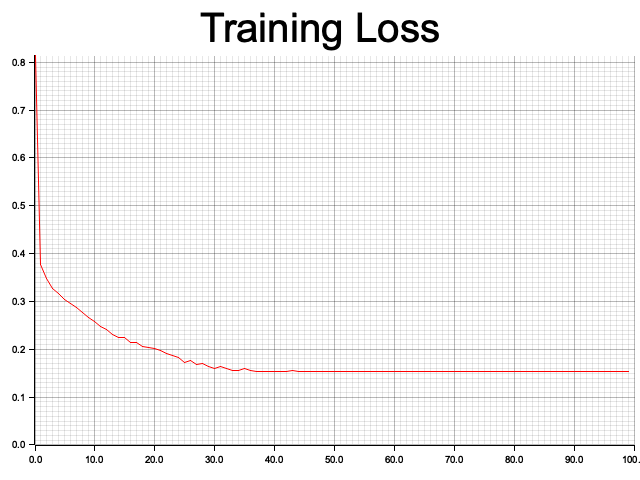
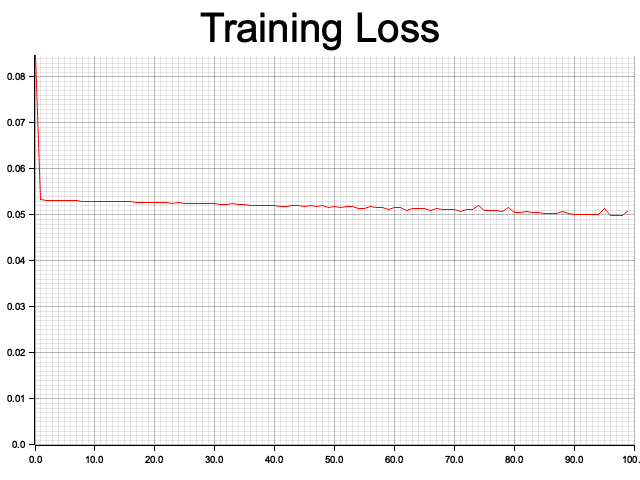
feat: awesome and working

Changed region(s): [[0.0, 0.125, 1.0, 0.9062]]

diff --git a/src/main.rs b/src/main.rs
@@ -4,8 +4,12 @@
 //! minimal yet feature-complete implementation.
 
 use anyhow::Result;
+
 use engine::Value;
-use plotters::prelude::*;
+use rand::prelude::SliceRandom;
+
+use rand::thread_rng;
+use viz::load_training_data;
 
 use crate::nn::Module;
 
@@ -68,37 +72,15 @@ fn run_values_example() -> Result<()> {
 }
 
 fn run_nn_example() -> Result<()> {
-    // Create a simple dataset: XOR problem
-    let xs = vec![
-        (
-            vec![
-                Value::new(0.0, None, "x0".to_string(), None),
-                Value::new(0.0, None, "x1".to_string(), None),
-            ],
-            Value::new(0.0, None, "y".to_string(), None),
-        ),
-        (
-            vec![
-                Value::new(0.0, None, "x0".to_string(), None),
-                Value::new(1.0, None, "x1".to_string(), None),
-            ],
-            Value::new(1.0, None, "y".to_string(), None),
-        ),
-        (
-            vec![
-                Value::new(1.0, None, "x0".to_string(), None),
-                Value::new(0.0, None, "x1".to_string(), None),
-            ],
-            Value::new(1.0, None, "y".to_string(), None),
-        ),
-        (
-            vec![
-                Value::new(1.0, None, "x0".to_string(), None),
-                Value::new(1.0, None, "x1".to_string(), None),
-            ],
-            Value::new(0.0, None, "y".to_string(), None),
-        ),
-    ];
+    // Load dataset from CSV
+    let mut xs = load_training_data("xor_data.csv")?;
+
+    // Shuffle the dataset
+    xs.shuffle(&mut thread_rng());
+
+    // Calculate split index (80% train, 20% test)
+    let split_idx = (xs.len() as f64 * 0.8) as usize;
+    let (train_data, test_data) = xs.split_at(split_idx);
 
     // Create a 2-layer neural network (2->4->1)
     let mut model = nn::MLP::new(2, &vec![4, 1]);
@@ -108,23 +90,16 @@ fn run_nn_example() -> Result<()> {
     for epoch in 0..100 {
         let mut epoch_loss = 0.0;
 
-        for (x, y) in &xs {
-            // Forward pass
+        for (x, y) in train_data {
             let pred = model.forward(x.to_vec())[0].clone();
-
-            // Calculate loss (MSE)
             let loss = (&pred - y).pow(2.0);
             epoch_loss += loss.data();
-
-            // Backward pass
             model.zero_grad();
             loss.backward();
-
-            // Update weights (SGD)
             model.update_weights(0.1);
         }
 
-        epoch_loss /= xs.len() as f64;
+        epoch_loss /= train_data.len() as f64;
         losses.push(epoch_loss);
 
         if epoch % 10 == 0 {
@@ -132,43 +107,35 @@ fn run_nn_example() -> Result<()> {
         }
     }
 
-    // Plot the loss curve
-    plot_losses(&losses, "training_loss.png")?;
+    viz::plot_losses(&losses, "training_loss.png")?;
 
-    // Test the model
-    for (x, y) in &xs {
+    // Evaluate on test set
+    println!("\n--- Test Set Evaluation ---");
+    let mut test_correct = 0;
+    let mut test_error = 0.0;
+    for (x, y) in test_data {
         let pred = model.forward(x.to_vec())[0].clone();
+        let error = (pred.data() - y.data()).abs();
+        test_error += error;
+        if error < 0.5 {
+            test_correct += 1;
+        }
         println!(
-            "Input: {:?}, Target: {}, Prediction: {:.4}",
-            x,
-            y,
+            "Input: ({:.1}, {:.1}), Target: {:.1}, Predicted: {:.1}",
+            x[0].data(),
+            x[1].data(),
+            y.data(),
             pred.data()
         );
     }
-
-    Ok(())
-}
-
-fn plot_losses(losses: &[f64], filename: &str) -> Result<()> {
-    let root = BitMapBackend::new(filename, (640, 480)).into_drawing_area();
-    root.fill(&WHITE)?;
-
-    let mut chart = ChartBuilder::on(&root)
-        .caption("Training Loss", ("sans-serif", 50).into_font())
-        .margin(5)
-        .x_label_area_size(30)
-        .y_label_area_size(30)
-        .build_cartesian_2d(
-            0f64..losses.len() as f64,
-            0f64..losses.iter().copied().fold(0. / 0., f64::max),
-        )?;
-
-    chart.configure_mesh().draw()?;
-
-    chart.draw_series(LineSeries::new(
-        losses.iter().enumerate().map(|(i, &v)| (i as f64, v)),
-        &RED,
-    ))?;
+    println!(
+        "\nTest Accuracy: {:.1}%",
+        (test_correct as f64 / test_data.len() as f64) * 100.0
+    );
+    println!(
+        "Test Average Error: {:.4}",
+        test_error / test_data.len() as f64
+    );
 
     Ok(())
 }

diff --git a/src/viz.rs b/src/viz.rs
@@ -2,6 +2,11 @@ use crate::Value;
 use colored::*;
 use std::collections::HashSet;
 
+use anyhow::Result;
+use csv::Reader;
+use plotters::prelude::*;
+use std::fs::File;
+
 pub struct BackpropViz {
     pub active_nodes: HashSet<usize>,
     pub completed_nodes: HashSet<usize>,
@@ -79,4 +84,51 @@ impl BackpropViz {
             }
         }
     }
+}
+
+pub fn plot_losses(losses: &[f64], filename: &str) -> Result<()> {
+    let root = BitMapBackend::new(filename, (640, 480)).into_drawing_area();
+    root.fill(&WHITE)?;
+
+    let mut chart = ChartBuilder::on(&root)
+        .caption("Training Loss", ("sans-serif", 50).into_font())
+        .margin(5)
+        .x_label_area_size(30)
+        .y_label_area_size(30)
+        .build_cartesian_2d(
+            0f64..losses.len() as f64,
+            0f64..losses.iter().copied().fold(0. / 0., f64::max),
+        )?;
+
+    chart.configure_mesh().draw()?;
+
+    chart.draw_series(LineSeries::new(
+        losses.iter().enumerate().map(|(i, &v)| (i as f64, v)),
+        &RED,
+    ))?;
+
+    Ok(())
+}
+
+pub fn load_training_data(filename: &str) -> Result<Vec<(Vec<Value>, Value)>> {
+    let file = File::open(filename)?;
+    let mut reader = Reader::from_reader(file);
+    let mut training_data = Vec::new();
+
+    for result in reader.records() {
+        let record = result?;
+        let x0: f64 = record[0].parse()?;
+        let x1: f64 = record[1].parse()?;
+        let target: f64 = record[2].parse()?;
+
+        training_data.push((
+            vec![
+                Value::new(x0, None, "x0".to_string(), None),
+                Value::new(x1, None, "x1".to_string(), None),
+            ],
+            Value::new(target, None, "y".to_string(), None),
+        ));
+    }
+
+    Ok(training_data)
 }
